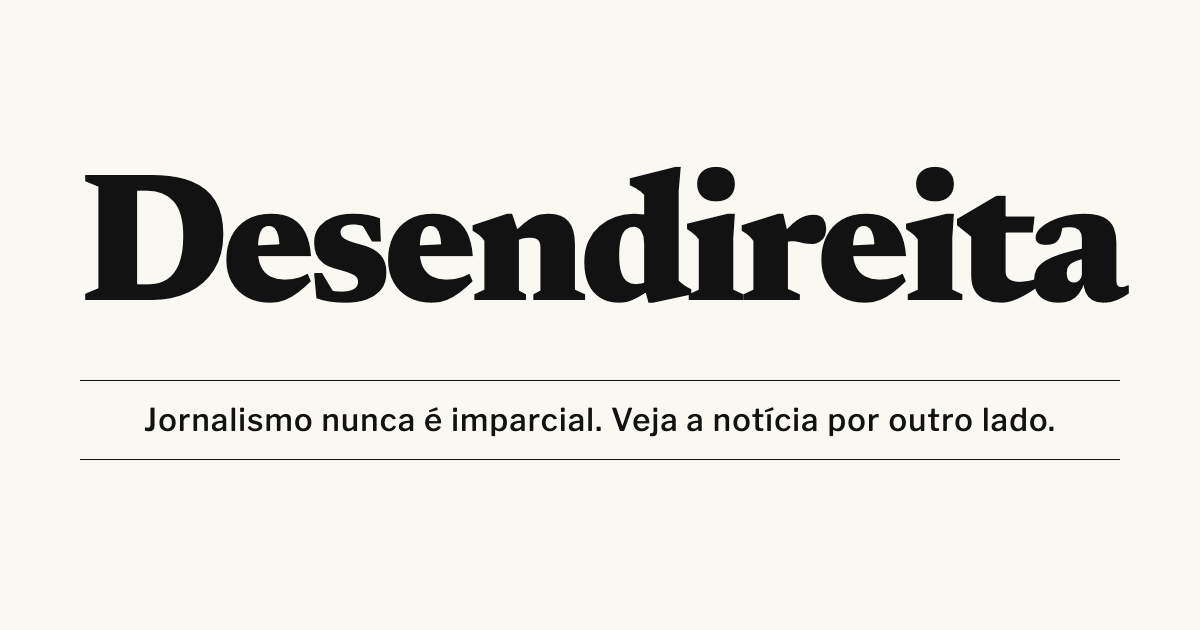
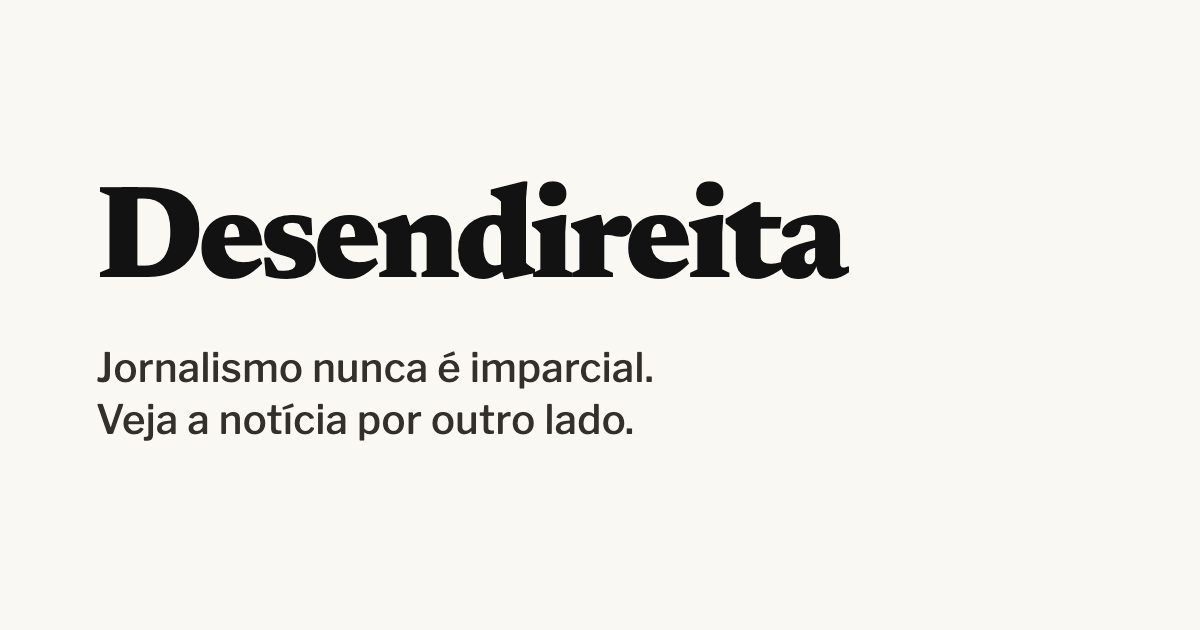
Imagem de compartilhamento: título menor, sem linhas, alinhada à esquerda
Claude-Session: https://claude.ai/code/session_01NkCNdN8i2hPivoQP1oNN6B

Changed region(s): [[0.0617, 0.2413, 0.9558, 0.4825], [0.0617, 0.5429, 0.8942, 0.6937]]

diff --git a/tools/og.html b/tools/og.html
@@ -9,13 +9,13 @@
 @font-face { font-family: "Libre Franklin"; font-weight: 500; src: url(../fonts/libre-franklin-latin-500-normal.woff2) format("woff2"); }
 * { box-sizing: border-box; }
 html, body { margin: 0; width: 1200px; height: 630px; }
-body { background: #FAF8F3; color: #121212; display: flex; flex-direction: column; justify-content: center; align-items: center; }
-h1 { margin: 0; font-family: Newsreader, Georgia, serif; font-weight: 800; font-size: 184px; line-height: .95; letter-spacing: -.04em; }
-.faixa { align-self: stretch; margin: 36px 80px 0; padding: 20px 0; border-top: 1px solid #121212; border-bottom: 1px solid #121212; text-align: center; font-family: "Libre Franklin", Arial, sans-serif; font-weight: 500; font-size: 31px; letter-spacing: .04em; }
+body { background: #FAF8F3; color: #121212; display: flex; flex-direction: column; justify-content: center; align-items: flex-start; padding: 0 96px; }
+h1 { margin: 0; font-family: Newsreader, Georgia, serif; font-weight: 800; font-size: 132px; line-height: .95; letter-spacing: -.04em; }
+p { margin: 32px 0 0; font-family: "Libre Franklin", Arial, sans-serif; font-weight: 500; font-size: 40px; line-height: 1.3; letter-spacing: .01em; color: #33302C; }
 </style>
 </head>
 <body>
 <h1>Desendireita</h1>
-<div class="faixa">Jornalismo nunca é imparcial. Veja a notícia por outro lado.</div>
+<p>Jornalismo nunca é imparcial.<br>Veja a notícia por outro lado.</p>
 </body>
 </html>
